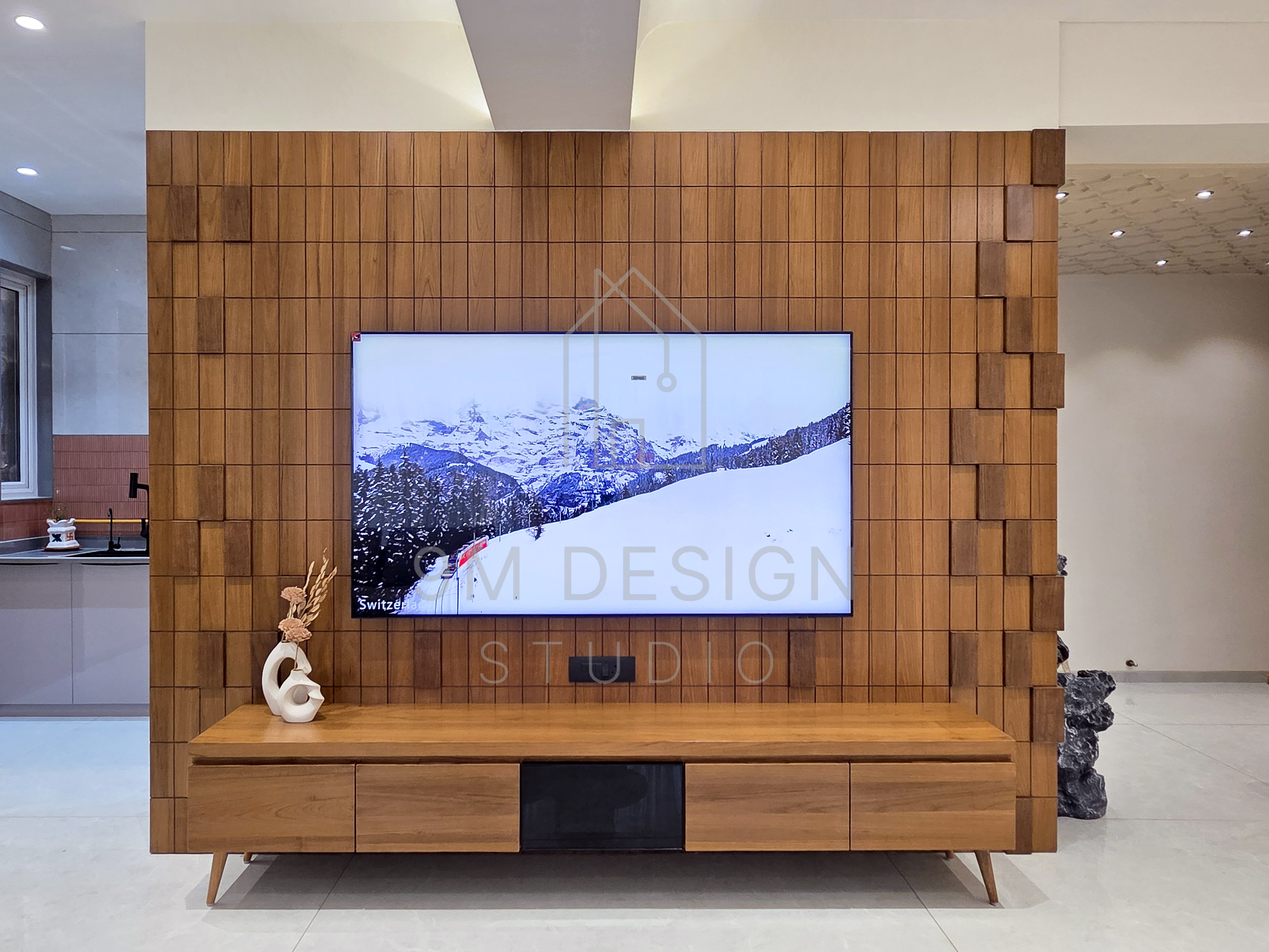
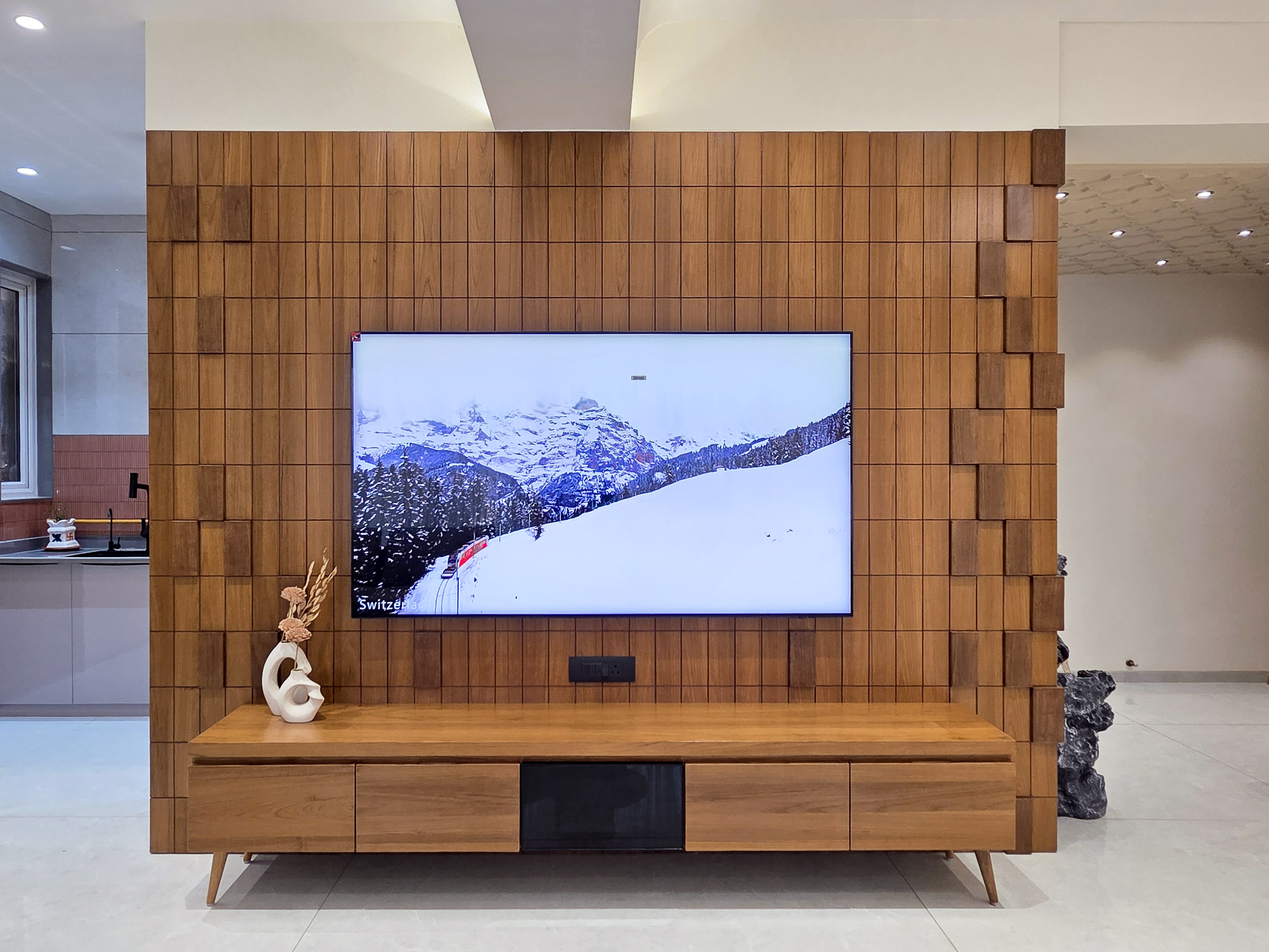
add

diff --git a/project-nandita.html b/project-nandita.html
@@ -251,7 +251,7 @@
 	<!-- Header End -->
 
     <!-- Page Header Start -->
-	<div class="page-header parallaxie" style="background-image: url(&quot;http://localhost:8000/images/Nandita/20260327_174807.jpg&quot;); background-size: cover; background-repeat: no-repeat; background-attachment: fixed; background-position: center 72.36px;">
+	<div class="page-header parallaxie" style="background-image: url(&quot;/images/Nandita/20260327_174807.jpg&quot;); background-size: cover; background-repeat: no-repeat; background-attachment: fixed; background-position: center 72.36px;">
 		<div class="container">
 			<div class="row">
 				<div class="col-lg-12">
